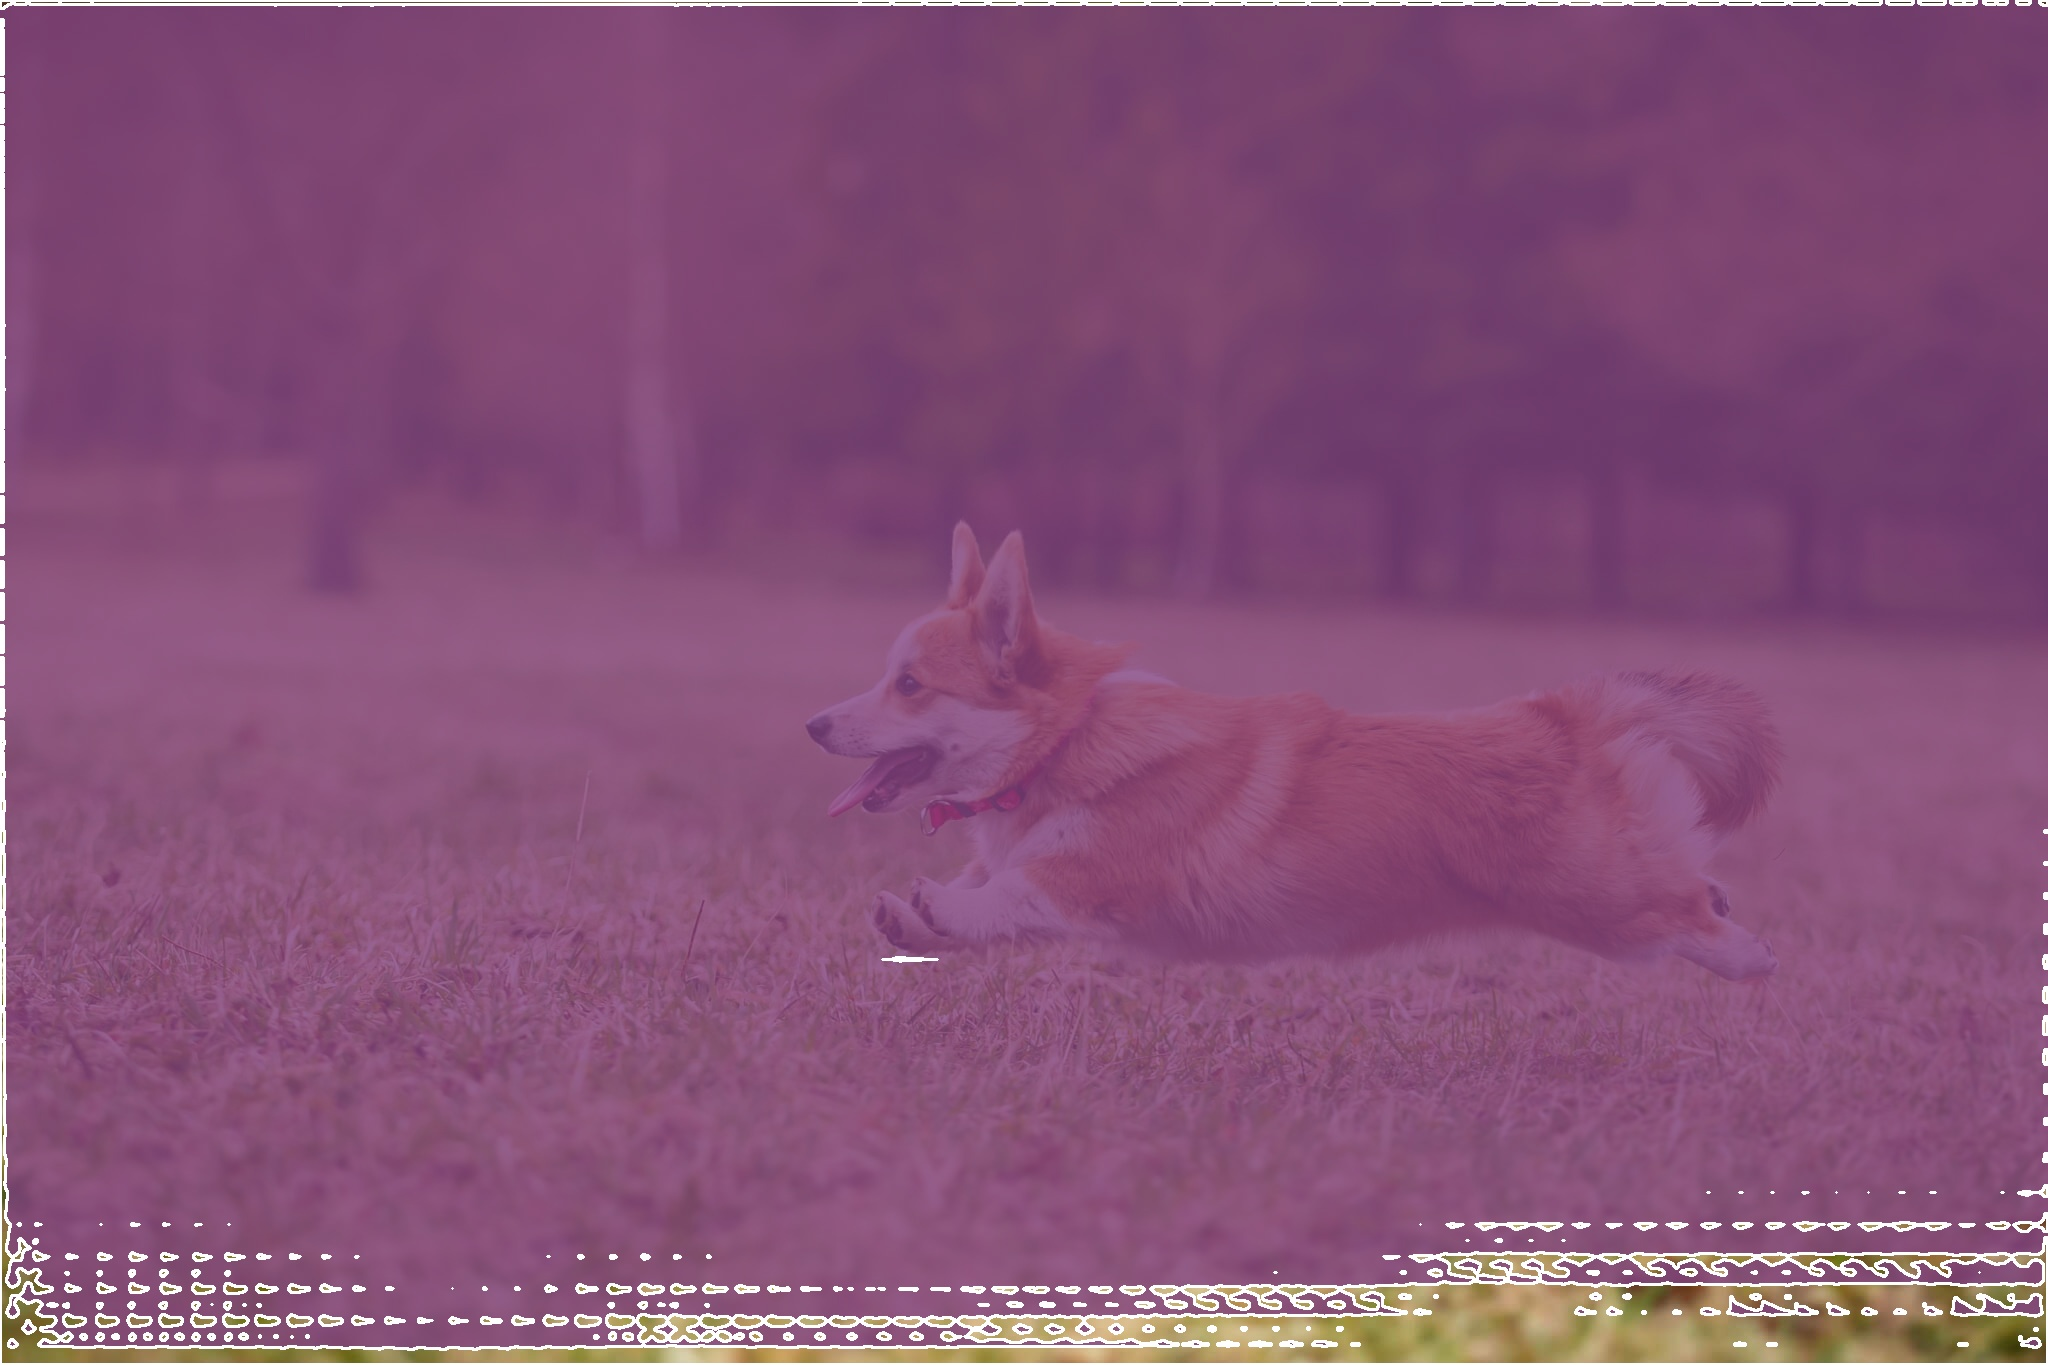
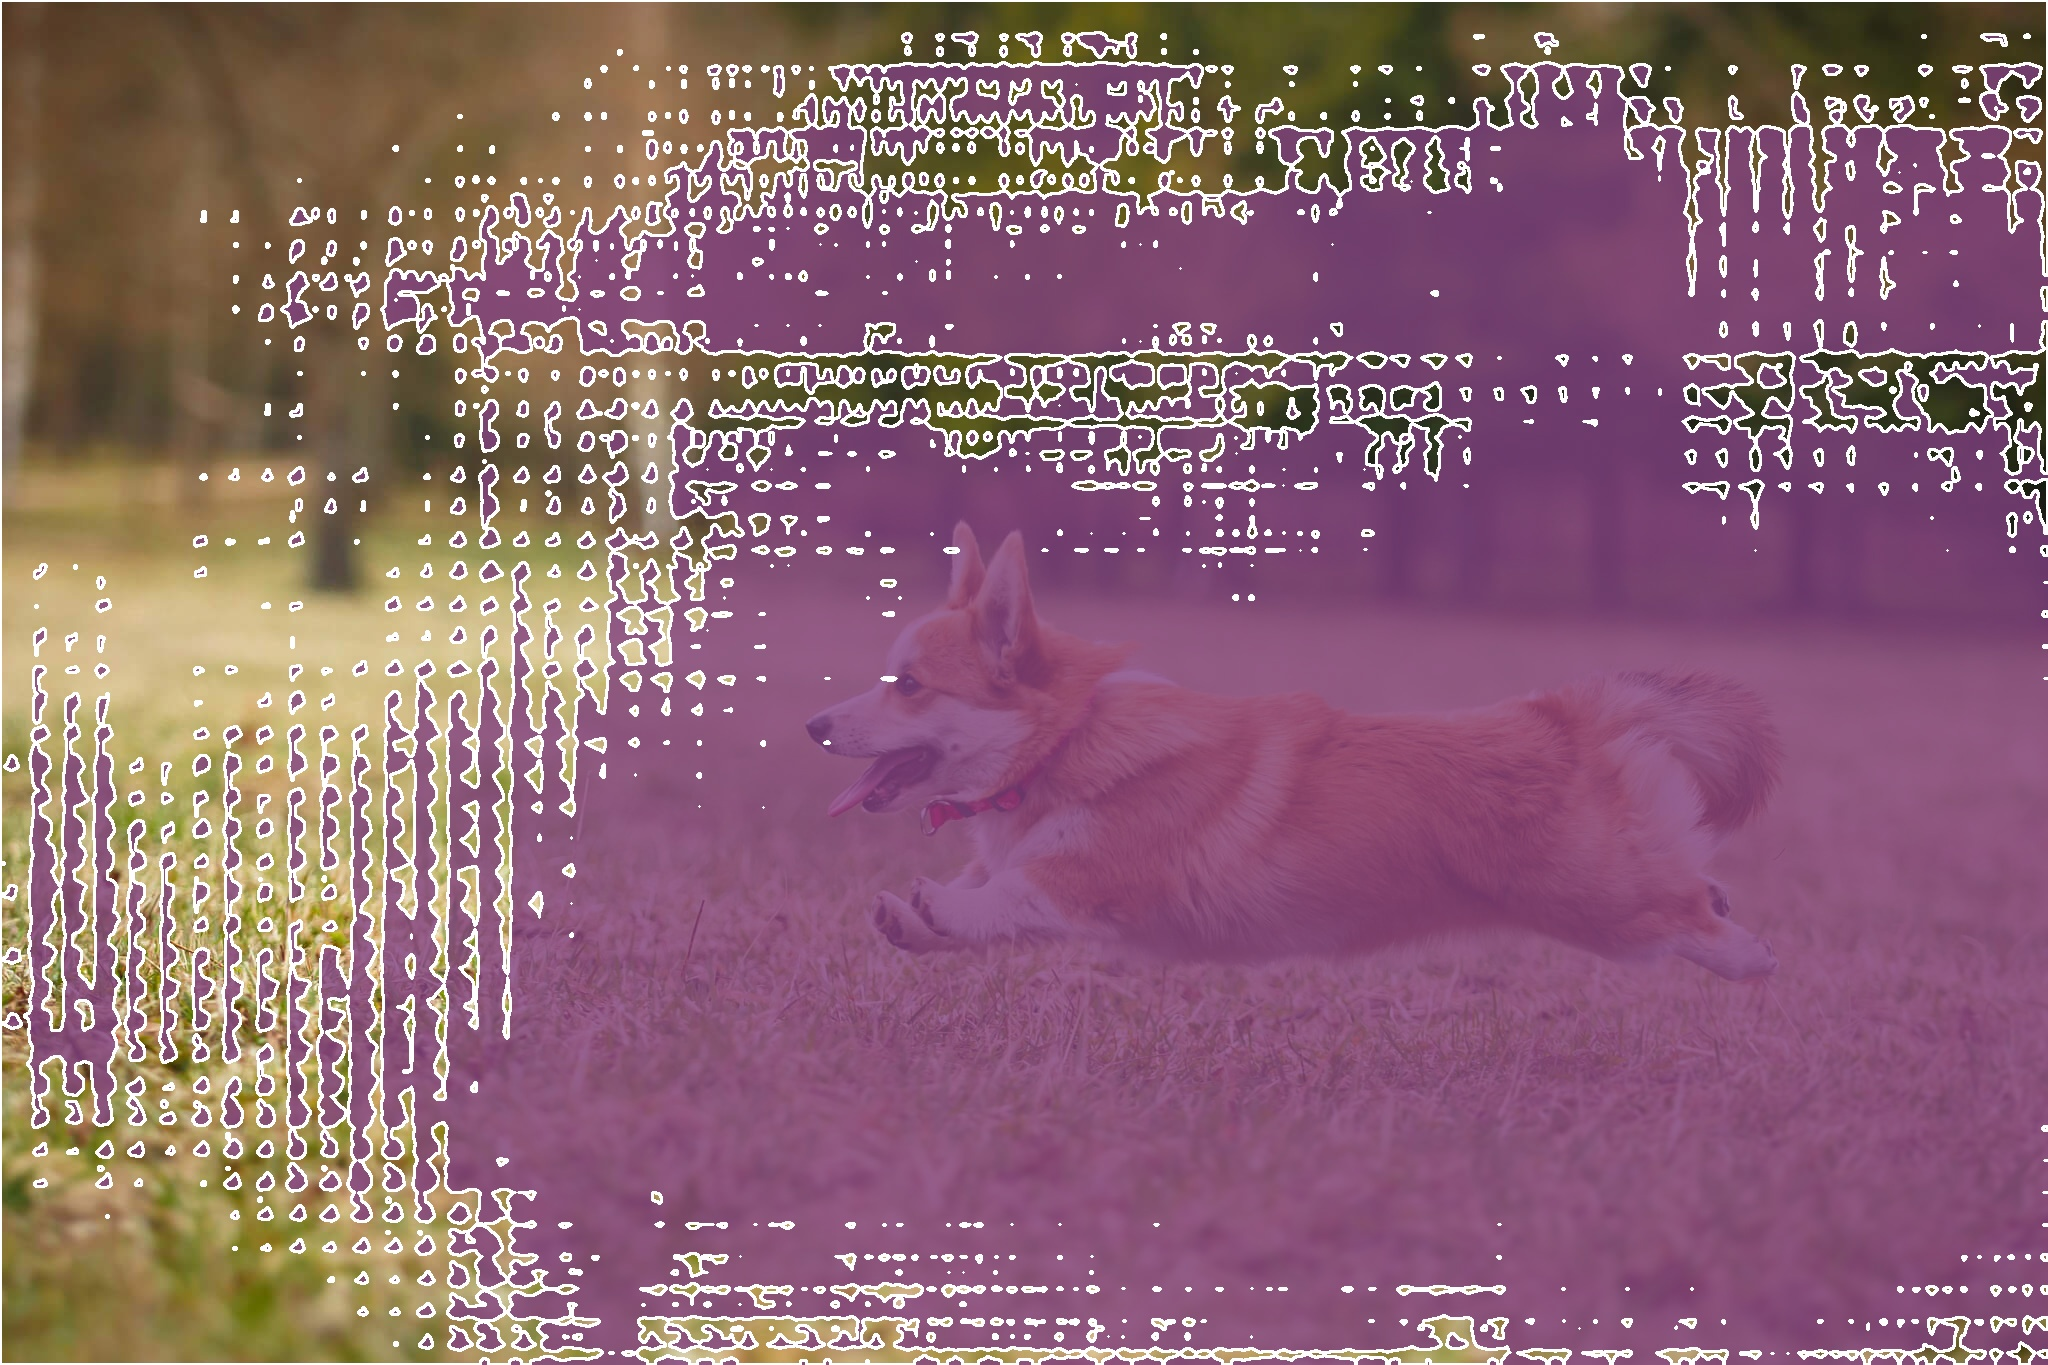
speed 5 ms

diff --git a/nanosam/nanosam.cpp b/nanosam/nanosam.cpp
@@ -19,6 +19,13 @@ NanoSam::NanoSam(string encoderPath, string decoderPath)
     mHasMaskInput = new float;
     mIouPrediction = new float[NUM_LABELS];
     mLowResMasks = new float[NUM_LABELS * HIDDEN_DIM * HIDDEN_DIM];
+
+    // Pre-allocate max prompt memory on GPU (e.g. 10 points)
+    void* d_coords = mMaskDecoder->getGpuBuffer("point_coords");
+    void* d_labels = mMaskDecoder->getGpuBuffer("point_labels");
+    
+    // Add stream creation
+    cudaStreamCreate(&mStream);
 }
 
 // Deconstructor
@@ -31,6 +38,9 @@ NanoSam::~NanoSam()
 
     if (mImageEncoder)  delete mImageEncoder;
     if (mMaskDecoder)   delete mMaskDecoder;
+    
+    if (d_rawImage) cudaFree(d_rawImage);
+    if (mStream) cudaStreamDestroy(mStream);
 }
 
 // Perform inference using NanoSam models
@@ -121,4 +131,61 @@ void NanoSam::upscaleMask(Mat& mask, int targetWidth, int targetHeight, int size
     Mat tempMask;
     cv::resize(mask(Rect(0, 0, limX, limY)), tempMask, Size(targetWidth, targetHeight));
     mask = tempMask;
+}
+
+void NanoSam::encodeImageGpu(const Mat& cpuImage)
+{
+    // 1. Upload raw BGR image to GPU
+    size_t imgBytes = cpuImage.rows * cpuImage.step;
+    if (!d_rawImage) {
+        cudaMalloc((void**)&d_rawImage, imgBytes);
+    }
+    cudaMemcpyAsync(d_rawImage, cpuImage.data, imgBytes, cudaMemcpyHostToDevice, mStream);
+
+    // 2. Preprocess directly on GPU into the Image Encoder's input buffer
+    float* d_encoderInput = (float*)mImageEncoder->getGpuBuffer("image");
+    launchPreprocess(d_rawImage, cpuImage.cols, cpuImage.rows, cpuImage.step,
+                     d_encoderInput, MODEL_INPUT_WIDTH, MODEL_INPUT_HEIGHT, mStream);
+
+    // 3. Run Encoder without downloading features to CPU
+    mImageEncoder->inferGpuOnly();
+}
+
+cv::Mat NanoSam::predictGpu(const cv::Mat& image, const std::vector<cv::Point>& points, const std::vector<float>& labels)
+{
+    // FIX: Safe Device-to-Device copy avoids double-free memory crashes
+    void* d_enc_emb = mImageEncoder->getGpuBuffer("image_embeddings");
+    void* d_dec_emb = mMaskDecoder->getGpuBuffer("image_embeddings");
+    cudaMemcpyAsync(d_dec_emb, d_enc_emb, 256 * 64 * 64 * sizeof(float), cudaMemcpyDeviceToDevice, mStream);
+
+    // Scale points and copy coordinates to GPU
+    float scale = (float)MODEL_INPUT_WIDTH / std::max(image.cols, image.rows);
+    std::vector<float> coords(points.size() * 2);
+    for (size_t i = 0; i < points.size(); ++i) {
+        coords[i * 2]     = (float)points[i].x * scale;
+        coords[i * 2 + 1] = (float)points[i].y * scale;
+    }
+
+    void* d_coords = mMaskDecoder->getGpuBuffer("point_coords");
+    void* d_labels = mMaskDecoder->getGpuBuffer("point_labels");
+
+    cudaMemcpyAsync(d_coords, coords.data(), sizeof(float) * coords.size(), cudaMemcpyHostToDevice, mStream);
+    cudaMemcpyAsync(d_labels, labels.data(), sizeof(float) * labels.size(), cudaMemcpyHostToDevice, mStream);
+
+    // FIX: Use explicit nvinfer1 namespace for dynamic shapes
+    mMaskDecoder->setInputShape("point_coords", nvinfer1::Dims3{ 1, (int)points.size(), 2 });
+    mMaskDecoder->setInputShape("point_labels", nvinfer1::Dims2{ 1, (int)points.size() });
+
+    // Run Decoder
+    mMaskDecoder->inferGpuOnly();
+
+    // Copy only the final low-res mask back to CPU (or upscale on GPU)
+    void* d_masks = mMaskDecoder->getGpuBuffer("low_res_masks");
+    cv::Mat lowResMask(HIDDEN_DIM, HIDDEN_DIM, CV_32FC1);
+    cudaMemcpyAsync(lowResMask.data, d_masks, sizeof(float) * HIDDEN_DIM * HIDDEN_DIM, cudaMemcpyDeviceToHost, mStream);
+    cudaStreamSynchronize(mStream);
+
+    // Upscale to original size
+    upscaleMask(lowResMask, image.cols, image.rows);
+    return lowResMask;
 }

diff --git a/main.cpp b/main.cpp
@@ -75,7 +75,9 @@ void segmentWithPoint(NanoSam& nanosam, string imagePath, string outputPath, Poi
 
     // Mask returns as a CV_32FC1 matrix of raw float logits
     auto start = std::chrono::high_resolution_clock::now();
-    auto mask = nanosam.predict(image, { promptPoint }, labels);
+    //auto mask = nanosam.predict(image, { promptPoint }, labels);
+    nanosam.encodeImageGpu(image);
+    auto mask = nanosam.predictGpu(image, { promptPoint }, labels);
     auto end = std::chrono::high_resolution_clock::now();
     
     if (predictDurationMs != nullptr)
@@ -94,7 +96,8 @@ int main()
     /* 1. Load engine examples */
 
     // Option 1: Load the engines
-    NanoSam nanosam("/home/admin/Downloads/nanosam/sam_hgv2_b1_ln_nonorm_image_encoder.engine",  "/home/admin/Downloads/nanosam/mobile_sam_mask_decoder.engine");
+    // NanoSam nanosam("/home/admin/Downloads/nanosam/resnet18_image_encoder_fp16_opt_5_avg_100.engine",  "/home/admin/Downloads/nanosam/mobile_sam_mask_decoder.engine");
+    NanoSam nanosam("/home/admin/Downloads/nanosam/resnet18_image_encoder_int8.engine",  "/home/admin/Downloads/nanosam/mobile_sam_mask_decoder.engine");
 
     // Option 2: Build the engines from onnx files
     // NanoSam nanosam("/home/admin/Downloads/nanosam/resnet18_image_encoder.onnx", "/home/admin/Downloads/nanosam/mobile_sam_mask_decoder.onnx");

diff --git a/nanosam/trt_module.cpp b/nanosam/trt_module.cpp
@@ -340,3 +340,28 @@ void TRTModule::getOutput(float* iouPrediction, float* lowResolutionMasks)
     memcpy(lowResolutionMasks, mCpuBuffers[id_masks], mBufferBindingBytes[id_masks]);
     memcpy(iouPrediction, mCpuBuffers[id_iou], mBufferBindingBytes[id_iou]);
 }
+
+void* TRTModule::getGpuBuffer(const std::string& tensorName)
+{
+    for (int i = 0; i < mEngine->getNbIOTensors(); i++) {
+        if (mEngine->getIOTensorName(i) == tensorName) {
+            return mGpuBuffers[i];
+        }
+    }
+    return nullptr;
+}
+
+// Executes inference directly on GPU without host <-> device memcpys
+bool TRTModule::inferGpuOnly()
+{
+    for (int i = 0; i < mEngine->getNbIOTensors(); i++) {
+        mContext->setTensorAddress(mEngine->getIOTensorName(i), mGpuBuffers[i]);
+    }
+    return mContext->enqueueV3(mCudaStream);
+}
+
+void TRTModule::setInputShape(const std::string& tensorName, nvinfer1::Dims dims)
+{
+    mContext->setInputShape(tensorName.c_str(), dims);
+}
+

diff --git a/nanosam/nanosam.h b/nanosam/nanosam.h
@@ -2,6 +2,7 @@
 
 #include <string>
 #include "trt_module.h"
+#include "preprocess.cuh"
 
 class NanoSam
 {
@@ -13,6 +14,8 @@ public:
     ~NanoSam();
 
     Mat predict(Mat& image, vector<Point> points, vector<float> labels);
+    Mat predictGpu(const Mat& image, const std::vector<cv::Point>& points, const std::vector<float>& labels);
+    void encodeImageGpu(const Mat& cpuImage);
 
 private:
 
@@ -29,6 +32,9 @@ private:
     void upscaleMask(Mat& mask, int targetWidth, int targetHeight, int size = 256);
     Mat resizeImage(Mat& img, int modelWidth, int modelHeight);
     void prepareDecoderInput(vector<Point>& points, float* pointData, int numPoints, int imageWidth, int imageHeight);
+    
+    uint8_t* d_rawImage = nullptr;
+    cudaStream_t mStream = nullptr;
 
 };
 

diff --git a/nanosam/trt_module.h b/nanosam/trt_module.h
@@ -26,6 +26,14 @@ public:
 
     ~TRTModule();
 
+    void* getGpuBuffer(const std::string& tensorName);
+
+    bool inferGpuOnly();
+    
+    void setInputShape(const std::string& tensorName, nvinfer1::Dims dims);
+
+
+
 private:
 
     void build(string onnxPath, vector<string> inputNames, vector<string> outputNames, bool isDynamicShape = false, bool isFP16 = false);
@@ -41,7 +49,6 @@ private:
     void copyInputToDeviceAsync(const cudaStream_t& stream = 0);
 
     void copyOutputToHostAsync(const cudaStream_t& stream = 0);
-
 
     vector<Dims> mInputDims;            //!< The dimensions of the input to the network.
     vector<Dims> mOutputDims;           //!< The dimensions of the output to the network.

diff --git a/nanosam/config.h b/nanosam/config.h
@@ -5,8 +5,8 @@
 #define MAX_NUM_PROMPTS		1
 
 // Model Params
-#define MODEL_INPUT_WIDTH	512.0f
-#define MODEL_INPUT_HEIGHT	512.0f
+#define MODEL_INPUT_WIDTH	1024.0f
+#define MODEL_INPUT_HEIGHT	1024.0f
 #define HIDDEN_DIM			256
 #define NUM_LABELS			4
 #define FEATURE_WIDTH		64
